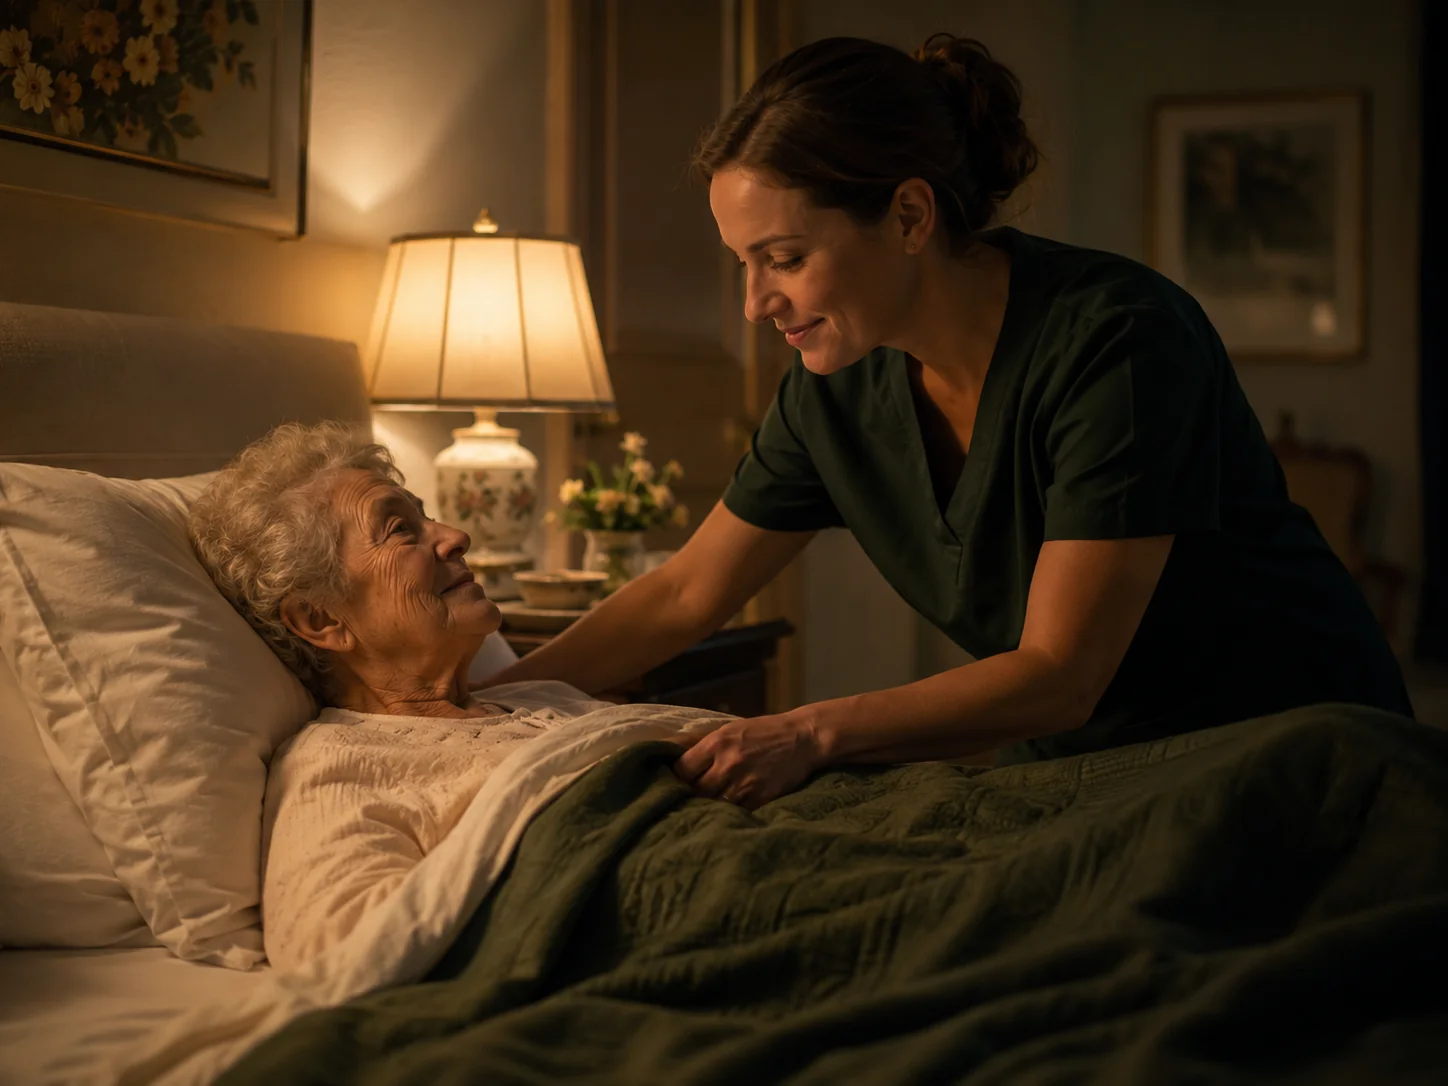
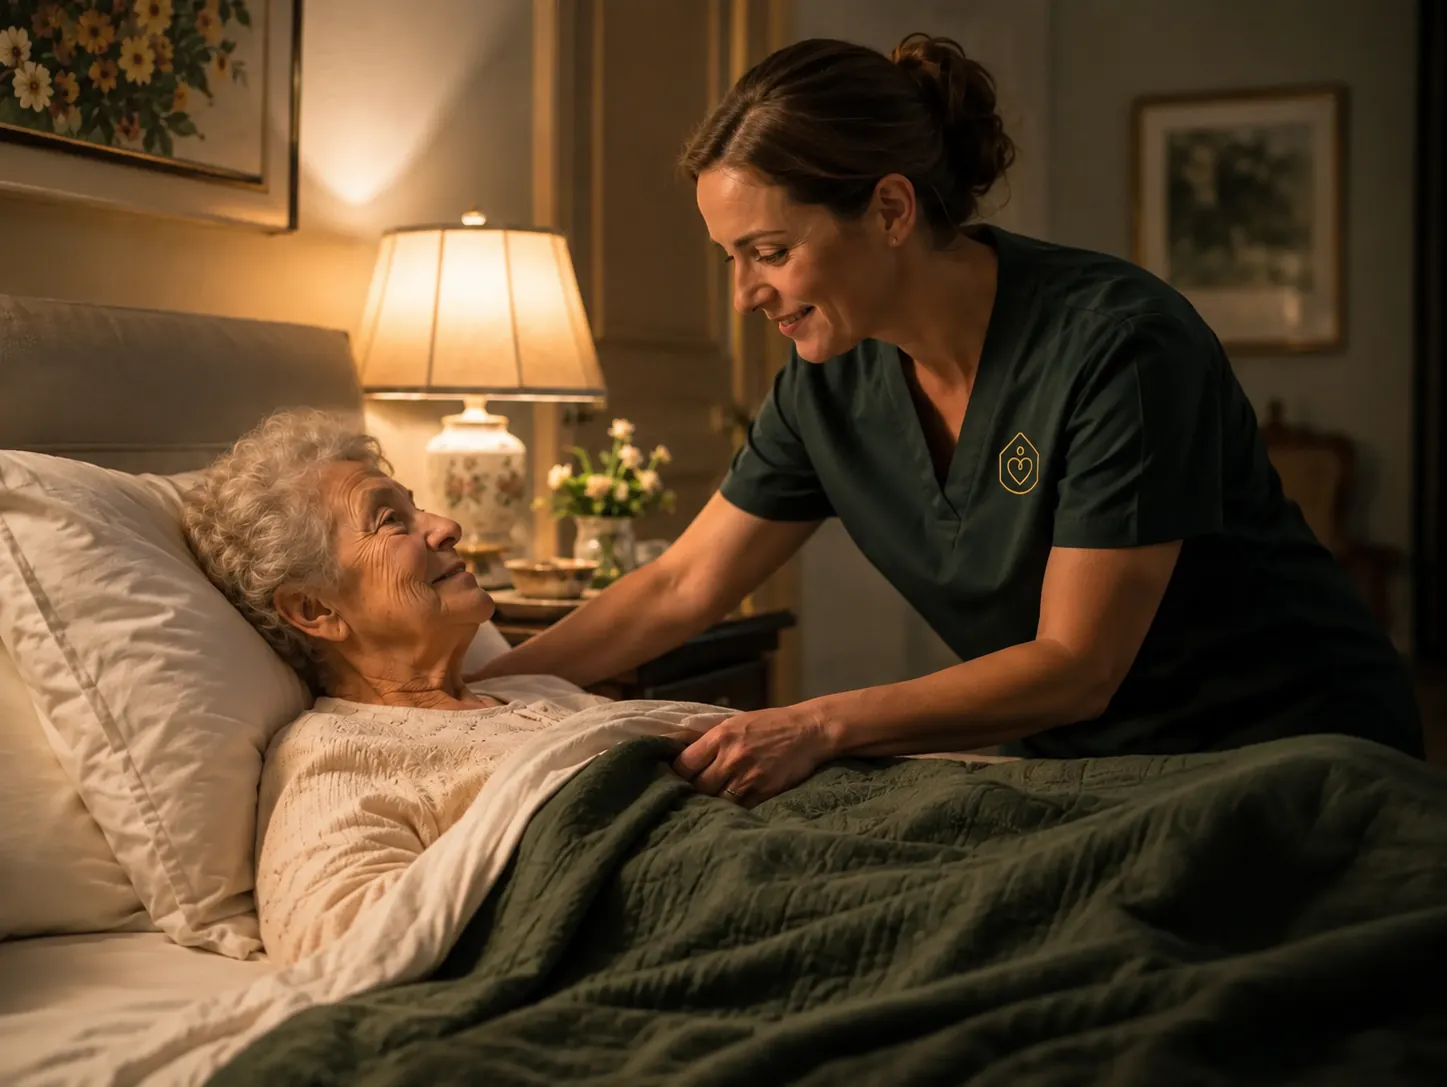
Novy obrazek nocni (Nocni pece) jako WebP s ?v=2

diff --git a/app.js b/app.js
@@ -1428,7 +1428,7 @@ function initTheme(){applyTheme('dark');}
 /* mapování id služby → název obrázku (kde se liší) */
 const SVC_IMG={lekar:'doktor',domaci:'domacipece',pomoc:'pomocvdomacnosti',rehab:'Rehabilitace'};
 /* verze obrázku dlaždice — zvýšit při výměně obrázku (obrázky se cachují natrvalo) */
-const SVC_IMG_V={osobni:2,lekar:2,domaci:2};
+const SVC_IMG_V={osobni:2,lekar:2,domaci:2,nocni:2};
 /* hlavních 6 služeb na úvodní stránce */
 const MAIN_SERVICES=['osobni','lekar','domaci','nakupy','nocni','nemocnice'];
 function renderHome(){
